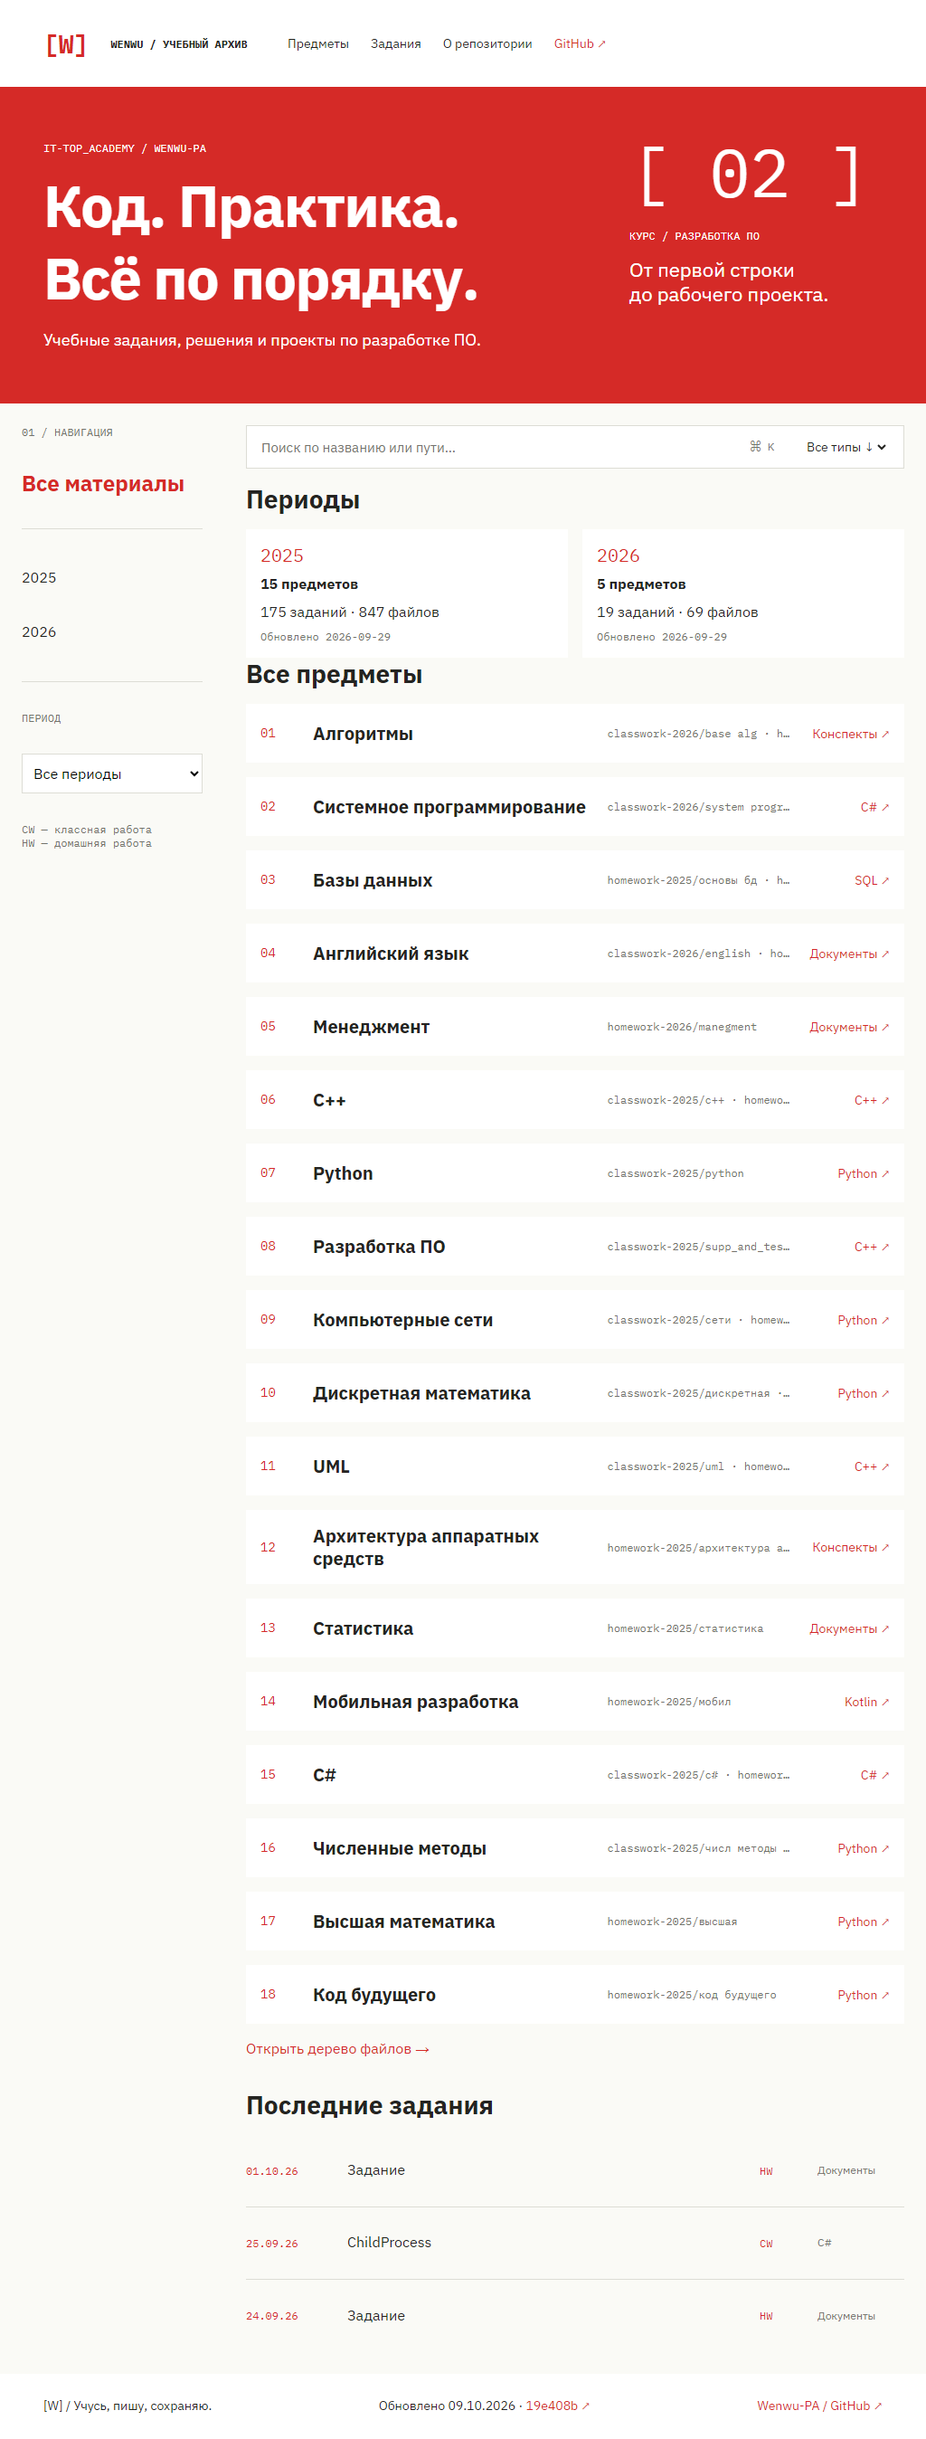
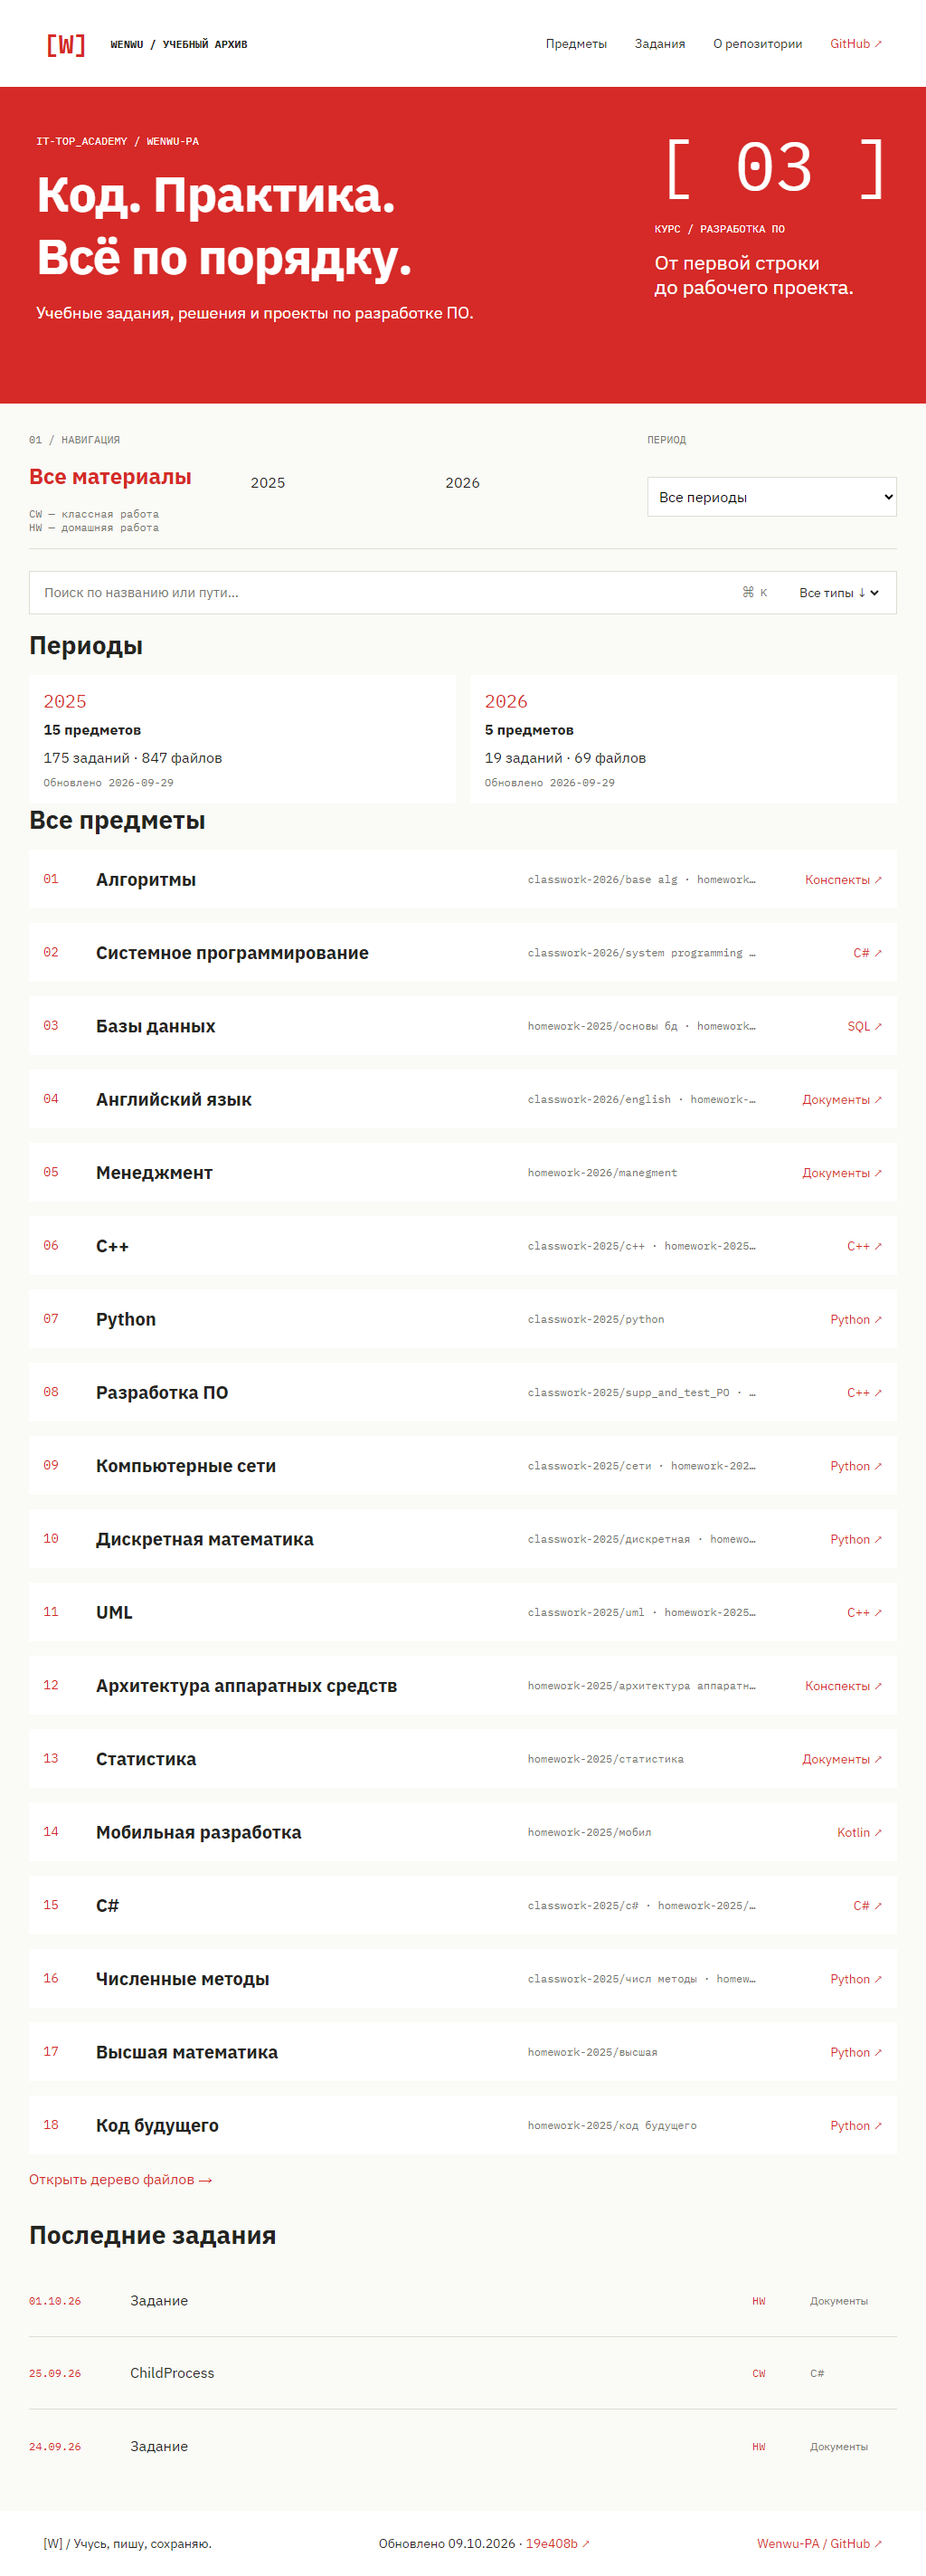
fix: improve portrait archive layout and year labels

diff --git a/src/styles/app.css b/src/styles/app.css
@@ -72,6 +72,7 @@
 .hierarchy-page { max-width: 1440px; min-height: 65vh; margin: 0 auto; padding: var(--space-6); }
 .hierarchy-page h1 { margin: var(--space-2) 0; font-size: var(--text-2xl); }
 .hierarchy-page h2 { display: flex; align-items: baseline; gap: var(--space-2); margin: var(--space-4) 0 var(--space-2); font-size: var(--text-xl); }
+.hierarchy-year { color: var(--red); font: var(--weight-regular) var(--text-sm)/var(--leading-normal) var(--font-mono); white-space: nowrap; }
 .back-link { min-height: 44px; display: inline-flex; align-items: center; color: var(--red); }
 .hierarchy-list { display: flex; flex-direction: column; gap: 1px; margin-block-start: var(--space-3); background: var(--line); }
 .hierarchy-row { min-height: 68px; display: grid; grid-template-columns: 48px minmax(160px, 1fr) minmax(180px, 1.5fr) 160px 120px; align-items: center; gap: var(--space-2); padding: var(--space-2); background: var(--surface); }
@@ -204,6 +205,24 @@
   .hero { grid-template-columns: minmax(0, 1fr) minmax(240px, 280px); gap: var(--space-3); }
   .archive-layout { grid-template-columns: 200px minmax(0, 1fr); padding: var(--space-3); }
   .subject-card { grid-template-columns: 42px minmax(180px, 1.5fr) minmax(100px, 1fr) 90px; }
+}
+@media (orientation: portrait) and (min-width: 851px) and (max-width: 1200px) {
+  .site-header { min-height: var(--header-height); height: auto; flex-wrap: wrap; row-gap: var(--space-1); padding-block: var(--space-2); }
+  .header-nav { flex: 1 1 auto; justify-content: flex-end; gap: clamp(var(--space-2), 3vw, var(--space-4)); }
+  .hero { grid-template-columns: minmax(0, 1fr) minmax(220px, 260px); gap: var(--space-3); padding: var(--space-5); }
+  .hero h1 { font-size: clamp(48px, 5.4vw, 60px); }
+  .archive-layout { grid-template-columns: minmax(0, 1fr); gap: var(--space-3); padding: var(--space-4); }
+  .archive-sidebar { display: grid; grid-template-columns: minmax(150px, 0.8fr) minmax(260px, 1.5fr) minmax(190px, 1fr); grid-template-areas: "label topics period-label" "all topics period" "legend topics period"; align-items: center; gap: var(--space-1) var(--space-3); padding-block-end: var(--space-2); border-block-end: 1px solid var(--line); }
+  .archive-sidebar > :nth-child(1) { grid-area: label; }
+  .archive-sidebar > :nth-child(2) { grid-area: all; }
+  .archive-sidebar > :nth-child(3), .archive-sidebar > :nth-child(5) { display: none; }
+  .archive-sidebar > :nth-child(4) { grid-area: topics; display: grid; grid-template-columns: repeat(2, minmax(0, 1fr)); align-content: center; gap: 0 var(--space-2); }
+  .archive-sidebar > :nth-child(6) { grid-area: period-label; }
+  .archive-sidebar > :nth-child(7) { grid-area: period-label; }
+  .archive-sidebar > :nth-child(8) { grid-area: period; }
+  .archive-sidebar > :nth-child(9) { grid-area: legend; }
+  .topic-nav details a { min-height: 36px; display: inline-flex; align-items: center; }
+  .subject-card { grid-template-columns: 42px minmax(240px, 1.8fr) minmax(150px, 1fr) 120px; }
 }
 @media (max-width: 850px) {
   .header-nav { margin-inline-start: auto; }

diff --git a/src/pages/HierarchyPage.tsx b/src/pages/HierarchyPage.tsx
@@ -11,7 +11,7 @@ export default function HierarchyPage({ manifest }: { manifest: ArchiveManifest 
   const { year, topicId } = useParams();
   const nodes = useMemo(() => manifest.nodes.filter((node) => yearFrom(node) === year), [manifest.nodes, year]);
   const topicIds = [...new Set(nodes.map((node) => node.topic).filter((id): id is string => Boolean(id)))];
-  const allSubjectNodes = manifest.nodes.filter((node) => node.topic === topicId);
+  const allSubjectNodes = manifest.nodes.filter((node) => node.topic === topicId && (!year || yearFrom(node) === year));
   const sources = allSubjectNodes.filter((node) => node.type === 'dir' && node.path.match(/^(?:classwork|homework)-\d{4}\/[^/]+$/));
   const children = useMemo(() => {
     const map = new Map<string | null, ArchiveNode[]>();
@@ -24,12 +24,20 @@ export default function HierarchyPage({ manifest }: { manifest: ArchiveManifest 
     <Link className="back-link" to={year ? `/y/${year}` : '/'}>← {year ?? 'Архив'}</Link>
     <h1>{titleFor(manifest, topicId)}</h1>
     <p className="assignment-path">{sources.map((node) => node.path).join(' · ') || 'Папки источников пока не найдены'}</p>
-    {(['CW', 'HW'] as const).map((kind) => {
+    {(['CW', 'HW'] as const).flatMap((kind) => {
       const roots = sources.filter((node) => kindFrom(node) === kind);
-      return <section className="hierarchy-section" key={kind}>
-        <h2>{kind === 'CW' ? 'Классная работа' : 'Домашняя работа'} <span className="path-label">{roots.length} источников</span></h2>
-        {!roots.length ? <p>Материалов пока нет.</p> : <div className="hierarchy-tree">{roots.map((root) => <TreeFolder key={root.id} node={root} children={children} depth={0} />)}</div>}
-      </section>;
+      const years = [...new Set(roots.map(yearFrom).filter((value): value is string => Boolean(value)))].sort((a, b) => b.localeCompare(a));
+      if (!years.length) return [<section className="hierarchy-section" key={`${kind}-empty`}>
+        <h2>{kind === 'CW' ? 'Классная работа' : 'Домашняя работа'} <span className="path-label">без указанного года</span></h2>
+        <p>Материалов пока нет.</p>
+      </section>];
+      return years.map((sourceYear) => {
+        const yearRoots = roots.filter((node) => yearFrom(node) === sourceYear);
+        return <section className="hierarchy-section" key={`${kind}-${sourceYear}`}>
+          <h2>{kind === 'CW' ? 'Классная работа' : 'Домашняя работа'} <span className="hierarchy-year">{sourceYear} год</span><span className="path-label">{yearRoots.length} источников</span></h2>
+          <div className="hierarchy-tree">{yearRoots.map((root) => <TreeFolder key={root.id} node={root} children={children} depth={0} />)}</div>
+        </section>;
+      });
     })}
   </main>;
 

diff --git a/e2e/archive.spec.ts b/e2e/archive.spec.ts
@@ -53,8 +53,8 @@ test('local editor loads and keeps a downloadable draft', async ({ page }) => {
 
 test('archive and file page stay within target viewports', async ({ page }) => {
   test.skip(!sourceFile, 'No previewable Python source file in the content repository.');
-  for (const width of [1440, 1024, 768, 390]) {
-    await page.setViewportSize({ width, height: 844 });
+  for (const { width, height } of [{ width: 1440, height: 844 }, { width: 1080, height: 1920 }, { width: 1024, height: 844 }, { width: 768, height: 844 }, { width: 390, height: 844 }]) {
+    await page.setViewportSize({ width, height });
     await page.goto('/');
     await expect(page.getByRole('heading', { name: 'Периоды' })).toBeVisible();
     await expect.poll(() => page.evaluate(() => document.documentElement.scrollWidth)).toBe(width);
@@ -69,9 +69,18 @@ test('periods open subjects and real CW/HW folders', async ({ page }) => {
   await expect(page.getByRole('heading', { name: 'Период 2026' })).toBeVisible();
   await page.getByRole('link', { name: 'Алгоритмы' }).click();
   await expect(page.getByRole('heading', { name: 'Алгоритмы' })).toBeVisible();
-  await expect(page.getByRole('heading', { name: 'Классная работа' })).toBeVisible();
-  await expect(page.getByRole('heading', { name: 'Домашняя работа' })).toBeVisible();
+  await expect(page.getByRole('heading', { name: /Классная работа 2026 год/ })).toBeVisible();
+  await expect(page.getByRole('heading', { name: /Домашняя работа 2026 год/ })).toBeVisible();
   await expect(page.getByText('classwork-2026/base alg')).toBeVisible();
+});
+
+test('course number is 03 and year-specific subject pages label the work year', async ({ page }) => {
+  await page.goto('/');
+  await expect(page.locator('.hero-count')).toHaveText('[ 03 ]');
+  await page.goto('/#/y/2025/discrete-math');
+  await expect(page.getByRole('heading', { name: /Классная работа 2025 год/ })).toBeVisible();
+  await expect(page.getByRole('heading', { name: /Домашняя работа 2025 год/ })).toBeVisible();
+  await expect(page.locator('.assignment-path')).not.toContainText('2026');
 });
 
 test('DOCX preview is converted at build time and has the original download', async ({ page }) => {

diff --git a/src/pages/ArchivePage.tsx b/src/pages/ArchivePage.tsx
@@ -117,7 +117,7 @@ export default function ArchivePage({ manifest }: { manifest: ArchiveManifest })
   return <>
     <section className="hero" aria-labelledby="hero-title">
       <div className="hero-copy"><p className="eyebrow hero-eyebrow">IT-TOP_ACADEMY / WENWU-PA</p><h1 id="hero-title">{manifest.site?.heroTitle ?? 'Код. Практика.'}<br />{manifest.site?.heroTitleSecond ?? 'Всё по порядку.'}</h1><p>{manifest.site?.tagline ?? 'Учебные задания, решения и проекты по разработке ПО.'}</p></div>
-      <div className="hero-stamp" aria-label={`Курс ${manifest.site?.course ?? 2}, ${manifest.site?.courseLabel ?? 'разработка программного обеспечения'}`}><span className="hero-count">[ {String(manifest.site?.course ?? 2).padStart(2, '0')} ]</span><span className="eyebrow">КУРС / {(manifest.site?.courseLabel ?? 'РАЗРАБОТКА ПО').toLocaleUpperCase('ru')}</span><p>{manifest.site?.heroNote ?? 'От первой строки\nдо рабочего проекта.'}</p></div>
+      <div className="hero-stamp" aria-label={`Курс ${manifest.site?.course ?? 3}, ${manifest.site?.courseLabel ?? 'разработка программного обеспечения'}`}><span className="hero-count">[ {String(manifest.site?.course ?? 3).padStart(2, '0')} ]</span><span className="eyebrow">КУРС / {(manifest.site?.courseLabel ?? 'РАЗРАБОТКА ПО').toLocaleUpperCase('ru')}</span><p>{manifest.site?.heroNote ?? 'От первой строки\nдо рабочего проекта.'}</p></div>
     </section>
     <main id="main" className="archive-layout">
       <aside className="archive-sidebar" aria-label="Навигация по архиву">

diff --git a/docs/ASSUMPTIONS.md b/docs/ASSUMPTIONS.md
@@ -6,7 +6,7 @@
 - Все остальные отслеживаемые файлы репозитория включены в дерево.
 - Текстовые файлы, изображения и PDF до 1 MiB копируются в сайт; офисные файлы до 10 MiB сохраняются для скачивания. DOCX/PPTX/XLSX/CSV преобразуются при сборке; PDF ищется и рендерится через лениво загружаемый PDF.js. При ошибке конвертации остаются метаданные и ссылка на оригинал.
 - Изображения внутри DOCX встраиваются в HTML, если они занимают не больше примерно 300 KiB.
-- Счётчик hero задан как `course: 2` в `site.config.yml`; это номер курса из макета, а не вычисленный счётчик папок.
+- Счётчик hero задан как `course: 3` в `site.config.yml`; это номер курса из макета, а не вычисленный счётчик папок.
 - Предметы сопоставляются с папками по нормализованным алиасам `topics.config.yml`; новые предметные папки получают собственный раздел и предупреждение сборки.
 - Датой задания считается дата в папке непосредственно под предметом, формат даты приводится к `ДД.ММ.ГГГГ`; внутренние каталоги одного задания не становятся отдельными заданиями.
 - README в папке работы служит источником условия; `.archive.yml` рядом с ним может задавать `title`, `topic`, `tags`, `status`, `statement` и `method`.

diff --git a/docs/screenshots/README.md b/docs/screenshots/README.md
@@ -1,5 +1,5 @@
 # Проверка адаптивных экранов
 
-Снимки получены Playwright из production-сборки на 1440, 1024, 768 и 390 px. Для каждого размера сохранены главная архива и страница реальной работы из текущего контента.
+Снимки получены Playwright из production-сборки на 1440×1100, вертикальном Full HD 1080×1920, 1024×1100, 768×1100 и 390×844. Для каждого размера сохранены главная архива и страница реальной работы из текущего контента.
 
 Пересоздать снимки после изменений: `npm run capture:screenshots`. Команда сначала строит production-версию, затем открывает её в Chromium и перезаписывает PNG-файлы.
